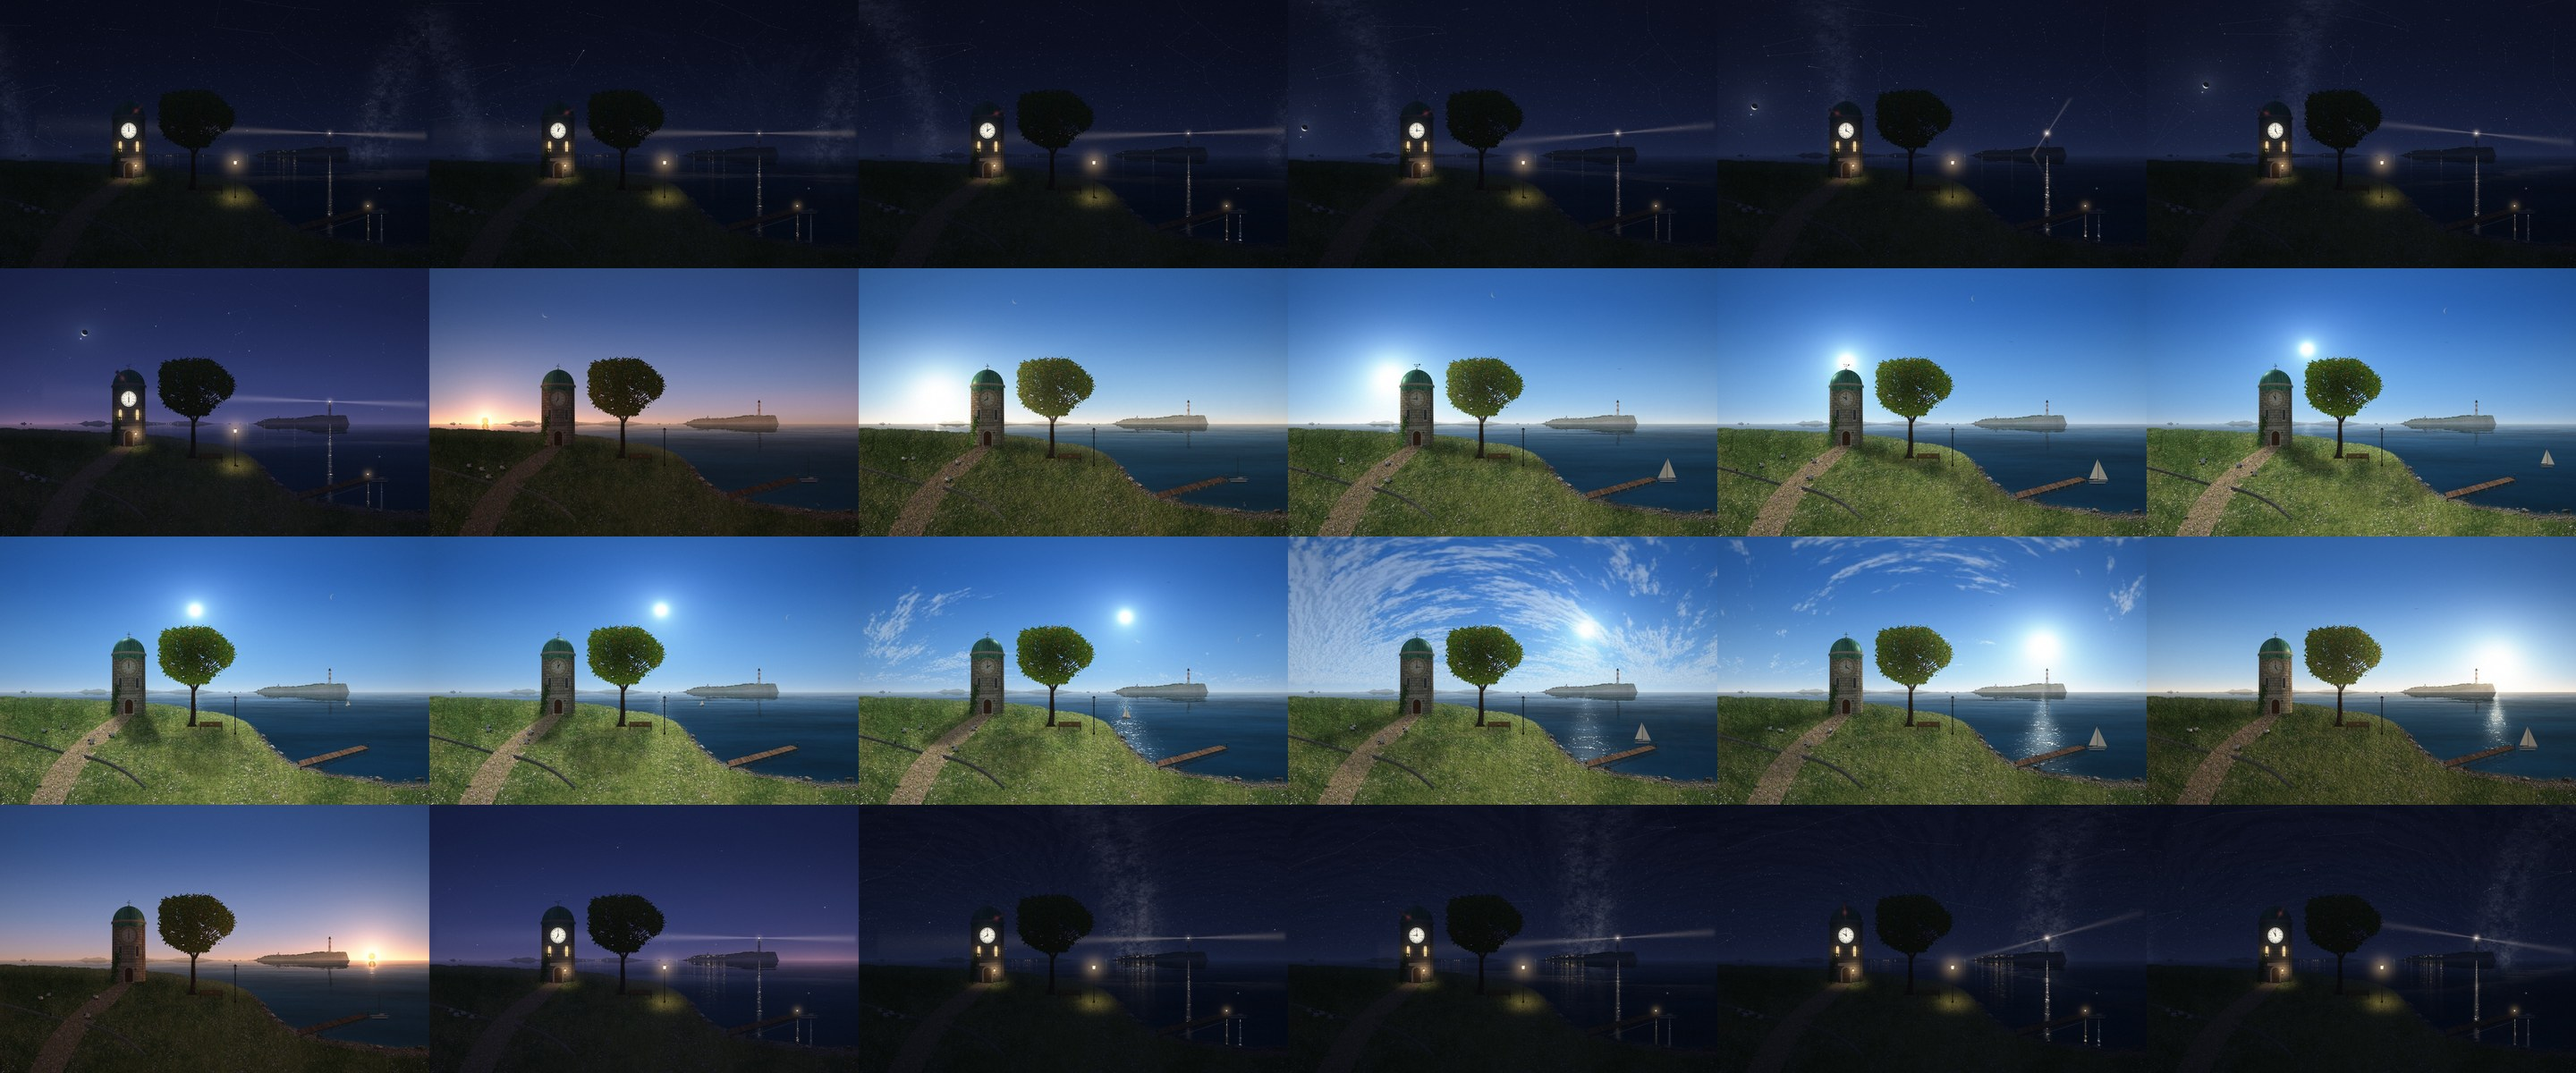
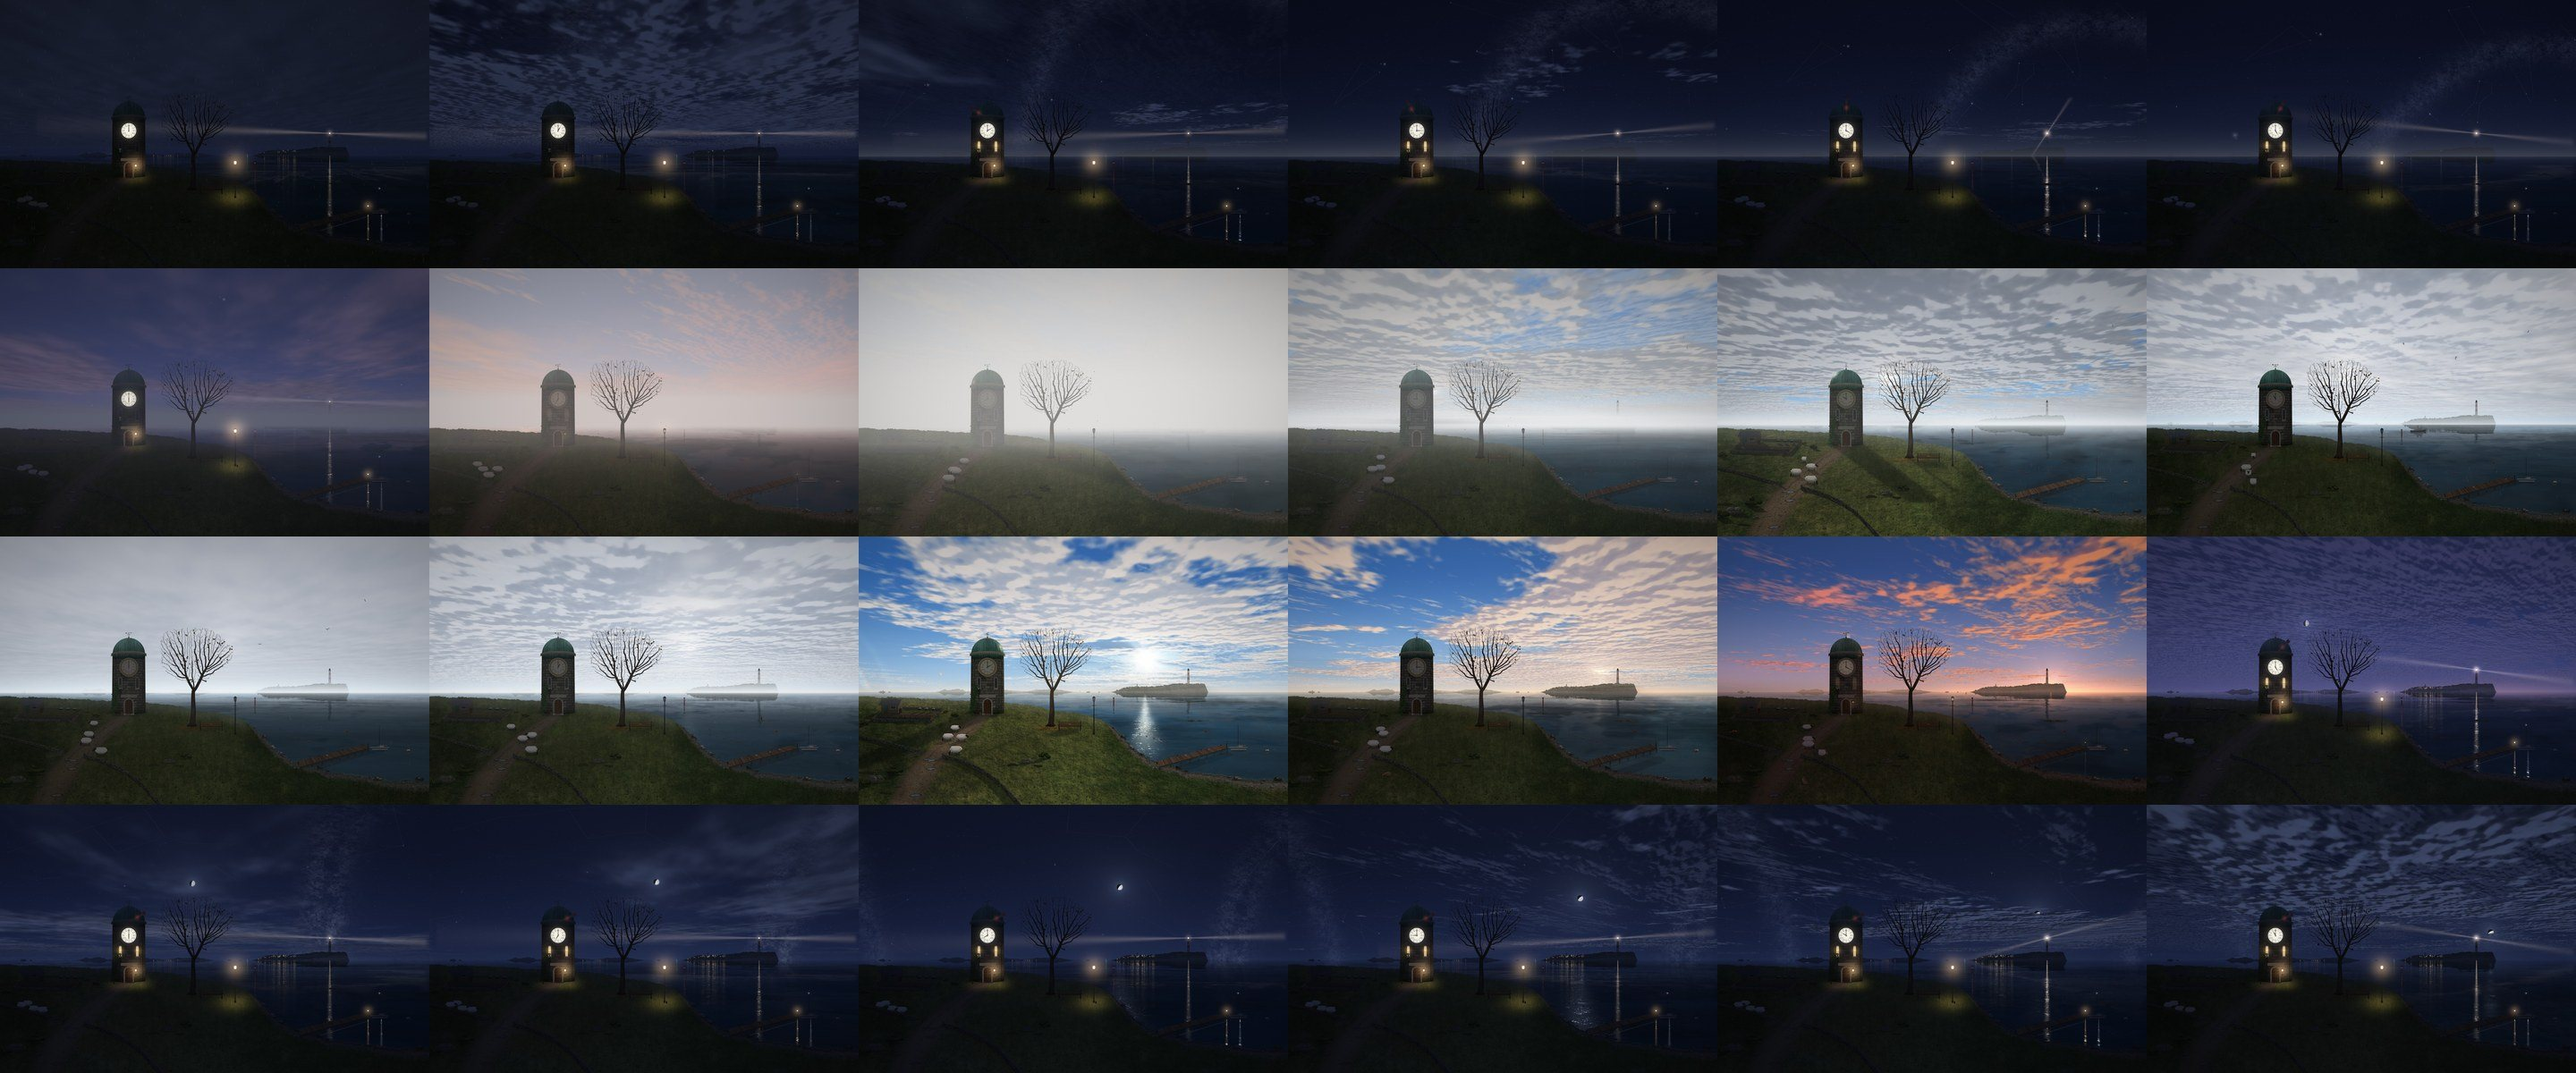
README pictures from v3 (18 November 2026, no shore); STATUS and intents: the clouds and the skipped frame are installed

diff --git a/STATUS.md b/STATUS.md
@@ -3,30 +3,30 @@
 _Last updated 2026-11-15 (the render job renders tomorrow once; renderer CI; housekeeping; a cloud change
 waiting for Evan's look: see "2026-11-15" below). What Evan wants: `intent.md`. v3 history: `docs/V3-PLAN.md`._
 
-## 2026-11-15: four changes Evan asked for ("Please do 1-3 and 6")
+## 2026-11-15: five changes Evan asked for
 
-Each has its intent, spec and plan under `intent/<change>/`.
+"Please do 1-3 and 6", then, on the cloud look test and the offer to skip a failed frame: "Go ahead. And yes,
+let's skip the frame instead." Each has its intent, spec and plan under `intent/<change>/`. All are merged
+and installed.
 
 | Change | State |
 |---|---|
-| `tomorrow-once`: the render job renders tomorrow once, from 18:00 | merged, installed 18:40 (tomorrow, 11-16, was already rendered at 03:32 with that morning's forecast and was left as it is) |
-| `housekeeping`: disk guard, docs, branches, `pre-cast/` | merged and installed, but for the README pictures and the v3 release (below) |
-| `renderer-ci`: the renderer's tests and a sweep of random dates in CI; pinned versions | merged; green on GitHub (158 tests, the four script tests, sweep 20 of 20, live 2 of 2). The sweep also runs nightly at 03:17 UTC; a failure emails Evan |
-| `cloud-horizon`: no whirl in the clouds | **branch `v3/cloud-horizon`, not installed: waits for Evan's verdict** on `out/look/cloud-horizon/pair-*.jpg` |
+| `tomorrow-once`: the render job renders tomorrow once, from 18:00 | installed 18:40 |
+| `housekeeping`: disk guard, docs, branches, `pre-cast/`, the README pictures, the v3 release | done (see "The v3 release" below) |
+| `renderer-ci`: the renderer's tests and a sweep of random dates in CI; pinned versions | green on GitHub. The sweep also runs nightly at 03:17 UTC; a failure emails Evan |
+| `cloud-horizon`: no whirl in the clouds | Evan's go; installed 19:42. Today's frames from 19:47 and all of tomorrow's were deleted and rendered again in the new look |
+| `skip-failed-frame`: a frame that cannot be drawn is skipped, not fatal | installed 19:42 |
 
-**Open, in order:**
-1. Evan looks at `out/look/cloud-horizon/` (its `README.md` says what to look at) and says go or no.
-2. On go: merge `v3/cloud-horizon`, `tools/install.sh`, delete today's and tomorrow's frames so they
-   render again in the new look.
-3. Then the README's three pictures (render them without a shore: the real shore never goes in git)
-   and a v3 release with its hourly HEIC. They wait so that they show the sky he chooses. On no: make
-   them from `main`.
-4. Check the log a day or two after 2026-11-15: one `(tomorrow)` render a day, after 18:00, and no
-   `(evening forecast)` line.
+**The v3 release** (tag `v3.0`): the hourly HEIC of 2026-11-18 with the forecast fetched 2026-11-15 18:42 UTC,
+rendered without a shore; the README's three pictures are from the same 24 frames (14:00, 19:00, the sheet).
+The day was chosen because no hidden event falls on it (`day.mysteries` all unset). To make it again: the
+frozen forecast is in `out/look/release/cache/` (gitignored), then
+`listening_point.py OUT --date 2026-11-18 --hours 0-23 --scale 0.75 --quality 90 --weather offline --cache out/look/release/cache --sheet`
+and `make_h24`.
 
-**Not done, offered:** a frame that crashes still stops the rest of its span (the job retries the
-span every 15 minutes and fails at the same minute until the forecast changes). Skipping the one
-frame and carrying on would be a small change to `render_chunk` in `listening_point.py`.
+**To check on a later day:**
+- The log shows one `(tomorrow)` render a day, after 18:00, and no `(evening forecast)` line.
+- The nightly sweep's runs on GitHub (`gh run list --workflow renderer`).
 
 ## Current state
 
@@ -286,11 +286,14 @@ tower's clock and lintel, so it does not run on Linux. `requirements.txt` pins e
 - Still recognisably computer-made: flat-shaded polygons, noise textures.
 - The cat, the heron and the owl are still small and simple; the sheep, fox, hares and crows were redrawn
   in v3 (`docs/v3/phase3-animals.md`, Known issues).
-- A frame that crashes stops the rest of its span (see "Not done, offered" at the top).
+- A frame that cannot be drawn is skipped and tried again every 15 minutes (about 20 s a try, and its
+  traceback in the log each time). Ten in a row still stop the span (`listening_point.SKIP_MAX`).
 - The shore's cast shadows: see "Cast shadows" above, Known issues.
-- The cloud layers whirl: their rows fan out of a point on the horizon and bend round the frame (flat
-  planes on a 220-degree panorama; worst with full cirrus or a mid-level sheet). Mended on
-  `v3/cloud-horizon`, which waits for Evan's look (`intent/cloud-horizon/`).
+- The cloud layers are laid out as for an ordinary view, not where flat layers would fall on the
+  220-degree panorama (`sky.cloud_plane`, since 2026-11-15: the true layout whirled). So a cloud's shadow
+  on the sea can lie up to about 20 degrees of azimuth from the cloud; cirrus streaks are held at least 60
+  degrees off the view's axis, so they are not always along the wind; mid-level sheets are level rows.
+  A wind within 6 degrees of north or south still fans the cirrus out of a point in the frame.
 - Weather can jump where separately rendered spans of a day meet (battery renders, a forecast
   refreshed mid-day).
 - The sea render and the front layer still peak at ~250 MB per frame; strip them like the hill if

diff --git a/intent/cloud-horizon/intent.md b/intent/cloud-horizon/intent.md
@@ -1,8 +1,8 @@
 # Intent: no whirl in the clouds
 
 Author: Evan (accepted Claude's proposal, 2026-11-15: "Please do 1-3 and 6"; this is item 2),
-written up by Claude. Status: built on branch `v3/cloud-horizon`, 2026-11-15; **waiting for Evan's
-verdict on the look test** (`out/look/cloud-horizon/`). Not installed.
+written up by Claude. Status: Evan's go on the look test, 2026-11-15 ("Go ahead"); merged and installed
+19:42.
 
 ## Problem
 
@@ -39,5 +39,4 @@ verdict on the look test** (`out/look/cloud-horizon/`). Not installed.
 
 ## Open questions
 
-- **Evan: go, or not?** The pairs are in `out/look/cloud-horizon/pair-*.jpg` (top before, bottom
-  after).
+- None. Evan said go on the pairs in `out/look/cloud-horizon/pair-*.jpg` (top before, bottom after).

diff --git a/intent/cloud-horizon/plan.md b/intent/cloud-horizon/plan.md
@@ -21,5 +21,7 @@ Risk: he prefers the old sky. Then the branch is dropped and nothing installed c
 - Determinism: the look test's 8 frames rendered twice, 0 differ.
 - Cost: 20 minutes of a cloudy noon (2026-11-13 12:20 to 12:39, full size, one process): 53.8 s of
   CPU on `main`, 56.1 s here: 1.04 times. The cubic sampling is the cost.
-- Look test: `out/look/cloud-horizon/` (8 pairs, a README). Shown to Evan 2026-11-15; no verdict yet.
+- Look test: `out/look/cloud-horizon/` (8 pairs, a README). Shown to Evan 2026-11-15; he said go.
+- Merged and installed 19:42; on merged `main`: 172 tests OK, `test_shore_reference.py` 4/4,
+  `test_shore_render.py` 7/7.
 - `STATUS.md` is updated on `main`, not on this branch, so the merge stays clean.

diff --git a/README.md b/README.md
@@ -5,11 +5,11 @@ sun, moon, planets and stars stand where they actually are over Budapest at that
 rain, fog and snow follow the morning's forecast; the tree leafs, turns and goes bare with the
 seasons; and the tower clock tells the time to the minute.
 
-![The Listening Point at 17:00](docs/hero-17h.jpg)
+![The Listening Point at 14:00](docs/hero-14h.jpg)
 
-![A day, on the hour: 6 October 2026, with its forecast](docs/contact-sheet.jpg)
+![A day, on the hour: 18 November 2026, with its forecast](docs/contact-sheet.jpg)
 
-![The same evening at 21:08, as the helper showed it](docs/hero-21h.jpg)
+![The same evening at 19:00](docs/hero-19h.jpg)
 
 ## The scene
 

diff --git a/intent.md b/intent.md
@@ -32,6 +32,8 @@ state and decisions stay in `STATUS.md`; the v3 history stays in `docs/V3-PLAN.m
 - **On the 2026-11-15 review** (Claude's list of improvements): "Please do 1-3 and 6." That is: stop
   rendering tomorrow twice; fix the mid-level cloud projection; catch renderer crashes before the
   nightly job does; housekeeping. He did not pick the time-lapse (4) or the painterly pass (5).
+- **On the cloud look test and a failed frame** (2026-11-15): "Go ahead. And yes, let's skip the frame
+  instead." The clouds are laid out as for an ordinary view; a frame that cannot be drawn is skipped.
 
 ## What must not change
 

diff --git a/intent/skip-failed-frame/intent.md b/intent/skip-failed-frame/intent.md
@@ -1,7 +1,7 @@
 # Intent: a frame that fails is skipped
 
 Author: Evan (2026-11-15, on Claude's offer: "yes, let's skip the frame instead"), written up by
-Claude. Status: built 2026-11-15.
+Claude. Status: merged and installed 2026-11-15.
 
 ## Problem
 
